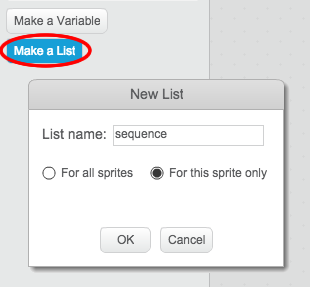
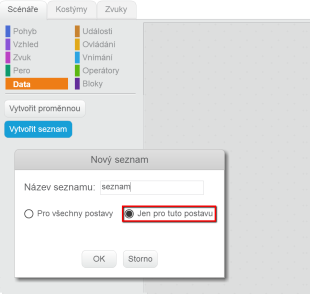
memory

diff --git a/cs-CZ/Term 2/Memory/Memory.md b/cs-CZ/Term 2/Memory/Memory.md
@@ -42,146 +42,146 @@ Jako první vytvoříme psotavu, která bude meěnit barvy v náhodné sekvenci 
 
 	![screenshot](colour-costume.png)
 
-+ To create a random sequence, you need to create a __list__. A list is just a variable that stores lots of data __in order__. Create a new list called `sequence` {.blockdata}. As only your character needs to see the list, we can also click 'For this sprite only'.
++ Pro vytvoření náhodné sekvence musíš vytvořit __seznam__. Seznam je proměnná, která uschovává další data __v pořadí__. Vytvoř seznam nazvaný `sekvence` {.blockdata}. Protože seznam potřebuje vidět jen tato postava, zaškrtneme 'Jen pro tuto postavu'.
 
 	![screenshot](colour-list.png)
 
-	You should now see your empty list in the top-left of your stage, as well as lots of new blocks for using lists.
+	Teď by měl být vidět na scéně vlevo nahoře prázdný seznam a přibýt bloky kódu pro práci s ním.
 
 	![screenshot](colour-list-blocks.png)
 
 + Add this code to your character, to add a random number to your list (and show the correct costume) 5 times:
 
 	```blocks
-		when flag clicked
-		delete (all v) of [sequence v]
-		repeat (5)
-			add (pick random (1) to (4)) to [sequence v]
-			switch costume to (item (last v) of [sequence v]
-			wait (1) secs
+		po kliknutí na ⚑
+		zruš (všechno v) z [seznam v]
+		opakuj (5) krát
+			přidej (náhodné číslo od (1) do (4)) k [seznam v]
+			změň kostým na (prvek (poslední v) z [seznam v])
+			čekej (1) sekund
 		end
 	```
 
-	Notice that you have also emptied the list to begin with.
+	všimni si, že musíš taky na začátku vyprázdnit seznam.
 
-## Challenge: Adding sound {.challenge}
-Test your project a few times. You may notice that sometimes the same number is chosen twice (or more) in a row, making the sequence harder to memorise. Can you make a drum sound play each time the character changes costume?
+## Výzva: Přidání zvuků {.challenge}
+Vyzkoušej projekt víckrát za sebou. Můžeš si všimnout, že se občas vybere stejná barva dvakrát nebo víckrát za sebou a je pak těžší zjsitit kolik jich bylo a zapamatovat si je. Přidej zvuk bubnu, pokaždé když postava změní kostým.
 
-Can you make a different drum sound play depending on the random number chosen? This will be _very_ similar to your code to change the character's costume.
+Zkus použít pokaždé jiný zvuk, aby odpovídal barvě. Toto je _velmi_ podobné tomu, jak měníš kostýmy.
 
-## Save your project { .save }
+## Ulož projekt { .save }
 
-# Krok 2: Repeating the sequence { .activity }
+# Krok 2: Zopakování sekvence { .activity }
 
-Let's add 4 buttons, for the player to repeat the sequence they've remembered.
+Přidej 4 tlačítka, kterýmí hráč zopakuje sekvenci barev, kterou si zapamatoval.
 
 ## Seznam úkolů { .check }
 
-+ Add 4 sprites to your project, that will become buttons. Edit your 4 sprites, so that there's 1 for each of the 4 colours.
++ Přidej 4 objekty, které budou představovat tlačítka. Uprav je tak, aby každý měl jednu z barev.
 
 	![screenshot](colour-drums.png)
 
-+ When the red drum is clicked, you'll need to broadcast a message to your character, letting them know that the red button has been clicked. Add this code to your red drum:
++ Pokud klikneš na červený buben, je potřeba poslat zprávu postavě, a dát j vědět, že bylo stisknuto toto 'tlačítko'. Přidej k červenému bubnu tetno kód:
 
 	```blocks
-		when this sprite clicked
-		broadcast [red v]
+		po kliknutí na mě
+		rozešli všem [cervena v]
 	```
 
-+ When your character receives this message, they should check whether the number 1 is at the start of the list (which means that red is the next colour in the sequence). If it is, you can remove the number from the list, as it's been guessed correctly. Otherwise it's game over!
++ Když postava dostane tuto zprávu, podíváme se jestli na začatku seznamu je červená - říslo 1. Pokud ano, tak ji odstraníme ze seznamu, pokud ne, tak je konec hry!
 
 	```blocks
-		when I receive [red v]
-		if <(item (1 v) of [sequence v])=[1]> then
-			delete (1 v) of [sequence v]
-		else
-			say [Game over!] for (1) secs
-			stop [all v]
+		po obdržení zprávy [red v]
+		když <(prvek (1 v) z [seznam v])=[1]> tak
+			zruš (1 v) z [seznam v]
+		jinak
+			říkej [Konec hry!] příštích (1) sekund
+			zastav [vše v]
 		end
 	```
 
-+ You could also display some flashing lights once the list is empty, as it means the entire sequence has been guessed correctly. Add this code to the end of your character's `when flag clicked` {.blockevents} script:
++ Jakmile je list prázdný zobraz blikající světla, to znamená, že si hráč zapamatoval vše správně. Přidej tento kód do  kódu tvé postavy nakonec bloku `po kliknutí na ⚑` {.blockevents}:
 
 	```blocks
-		wait until < (length of [sequence v]) = [0]>
-		broadcast [won v] and wait
+		čekej dokud nenastatne < (délka [seznam v]) = [0]>
+		rozešli všem [vyhra v] a čekej
 	```
 
-+ Click on your stage, and add this code to make the backdrop change colour once the player has won.
++ Klikni na scénu a přidej tento kód, který změní barvu pozadí, když gráč vyhraje:
 
 	```blocks
-		when I receive [won v]
-		play sound [drum machine v]
-		repeat (50)
-			change [color v] effect by (25)
-			wait (0.1) secs
+		po obdržení zprávy [vyhra v]
+		přehraj zvuk [drum machine v]
+		opakuj (50) krát
+			změň efekt [barva v] o (25)
+			čekej (0.1) sekund
 		end
-		clear graphic effects
+		zruš grafické efekty
 	```
 
-## Challenge: Creating 4 buttons {.challenge}
-Repeat the steps above for your blue, green and yellow buttons. Which code will stay the same, and which code will change for each button?
+## Výzva: Vytvoření 4 tlačítek {.challenge}
+Zopakuj předchozí kroky pro ostatní tlačítka. Který kód zůstane stejný a který se mění?
 
-You can also add sounds for when the buttons are pressed.
+Také můžeš přidat zvuk když jsou tlačítka stisknuta.
 
-Remember to test the code you've added! Can you memorise a sequence of 5 colours? Is the sequence different each time?
+Nezapomeň přidaný kód otestovat! Dokážeš si zapamatovat kód pěti barev?
 
-## Save your project { .save }
+## Ulož projekt { .save }
 
-# Krok 3: Multiple levels { .activity .new-page }
+# Krok 3: Více úrovní { .activity .new-page }
 
-So far, the player only has to remember 5 colours. Let's improve your game, so that the length of the sequence increases.
+Doteď si hráč musel zapamatovat jen 5 barev. Vylepši hru tak, aby se délka sekvence prodlužovala.
 
 ## Seznam úkolů { .check }
 
-+ Create a new variable called `score` {.blockdata}.
++ Vytovř novou proměnnou nazvanou `score` {.blockdata}.
 
 	![screenshot](colour-score.png)
 
-+ This `score` {.blockdata} will be used to decide on the length of the sequence the player has to memorise. So, to begin with the score (and the sequence length) is 3. Add this code block to the start of your character's `when flag clicked` {.blockevents} code:
++ Toto `score` {.blockdata} bude použito pro rozhodování, kolik barev si má hráč zapamatovat. Na začátek ho nastavíme na 3. Přidej tent kód k tvé postavě na začátek bloku `po kliknutí na ⚑` {.blockevents}:
 
 	```blocks
-		set [score v] to [3]
+		nastav [score v] na [3]
 	```
 
-+ Instead of always creating a sequence of 5 colours, you now want the `score` {.blockdata} to determine the sequence length. Change your character's `repeat` {.blockcontrol} loop (for creating the sequence) to:
++ Místo vytváření sekvence 5 barev, použiješ tuto proměnnou `score` {.blockdata} pro počet barev, které se mají vygenerovat. Změn cyklus `opakuj` {.blockcontrol} u postavy pro vytváření sekvence takto:
 
 	```blocks
-		repeat (score)
+		opakuj (score) krát
 		end
 	```
 
-+ If the sequence is guessed correctly, you should add 1 to the score, to increase the length of the sequence.
++ Pokud si hráč zapamatuje sekvenci správně, zvedni skóre o 1:
 
 	```blocks
-		change [score v] by (1)
+		změň [score v] o (1)
 	```
 
-+ Finally, you need to add a `forever` {.blockcontrol} loop around the code to generate the sequence, so that a new sequence is created for each level. This is how your character's code should look:
++ Nakonec, musíš přidat smyčku `opakuj dokola` {.blockcontrol} kolem sekvence kódu na generování seznamu, tak aby se pro každou úroveň vytvořila nová sekvence. Takto by měl vypadat kód postavy:
 
 	```blocks
-		when flag clicked
-		set [score v] to [3]
-		forever
-			delete (all v) of [sequence v]
-			repeat (score)
-				add (pick random (1) to (4)) to [sequence v]
-				switch costume to (item (last v) of [sequence v]
-				wait (1) secs
+		po kliknutí na ⚑
+		nastav [score v] na [3]
+		opakuj dokola
+			zruš (všechno v) z [seznam v]
+			opakuj (score) krát
+				přidej (náhodné číslo od (1) do (4)) k [seznam v]
+					změň kostým na (prvek (poslední v) z [seznam v]
+				čekej (1) sekund
 			end
-			wait until < (length of [sequence v]) = [0]>
-			broadcast [won v] and wait
-			change [score v] by (1)
+			čekej dokud nenastane < (délka [seznam v]) = [0]>
+			rozešli všem [vyhra v] a čekej
+			změň [score v] o (1)
 		end
 	```
 
-+ Get your friends to test out your game. Remember to hide the `sequence` {.blockdata} list before they play it!
++ Nech kamarády otestovat hru. Nezapomeň schovat seznam `seznam` {.blockdata}!
 
-## Save your project { .save }
+## Ulož projekt { .save }
 
-# Krok 4: High score { .activity }
+# Krok 4: Nejvyšší skóre { .activity }
 
-Let's save the high score, so that you can play against your friends.
+Ukládej nejvyšší skóre, abyste mohli s kamarády hrát proti sobě.
 
 ## Seznam úkolů { .check }
 
@@ -190,17 +190,17 @@ Let's save the high score, so that you can play against your friends.
 + If ever the game ends (by pressing the wrong button), you need to check whether the player's score is higher than the current high score. If it is, you need to save the score as the high score, and store the name of the player. Here's how your red button should look:
 
 	```blocks
-		when I receive [red v]
-		if <(item (1 v) of [sequence v])=[1]> then
-			delete (1 v) of [sequence v]
+		po obdržení zprávy [red v]
+		if <(item (1 v) of [seznam v])=[1]> then
+			delete (1 v) of [seznam v]
 		else
 			say [Game over!] for (1) secs
 			if < (score) > (high score) > then
 				set [high score v] to (score)
-				ask [High score! What is your name?] and wait
+				ask [High score! What is your name?] a čekej
 				set [name v] to (answer)
 			end
-			stop [all v]
+			zastav [vše v]
 		end
 	```
 
@@ -226,27 +226,27 @@ Let's save the high score, so that you can play against your friends.
 
 	![screenshot](colour-cough.png)
 
-## Challenge: Making more blocks {.challenge}
+## Výzva: Making more blocks {.challenge}
 Do you notice any other code that is the same for all 4 buttons?
 
 ![screenshot](colour-more-blocks.png)
 
 Can you make another custom block, that is used by each button?
 
-## Save your project { .save }
+## Ulož projekt { .save }
 
-## Challenge: Another costume {.challenge}
+## Výzva: Another costume {.challenge}
 Have you noticed that your game starts with your character showing one of the 4 colours, and that they always display the last colour in the sequence while the player is repeating the sequence?
 
 Can you add another plain white costume to your character, which is displayed at the start of your game, and when the player is trying to copy the sequence?
 
 ![screenshot](colour-white.png)
 
-## Save your project { .save }
+## Ulož projekt { .save }
 
-## Challenge: Difficulty level {.challenge}
+## Výzva: Difficulty level {.challenge}
 Can you allow your player to choose between 'easy mode' (using just the red and blue drums) and 'normal mode' (which uses all 4 drums)?
 
 You could even add a 'hard' mode, which makes use of a 5th drum!
 
-## Save your project { .save }
+## Ulož projekt { .save }
